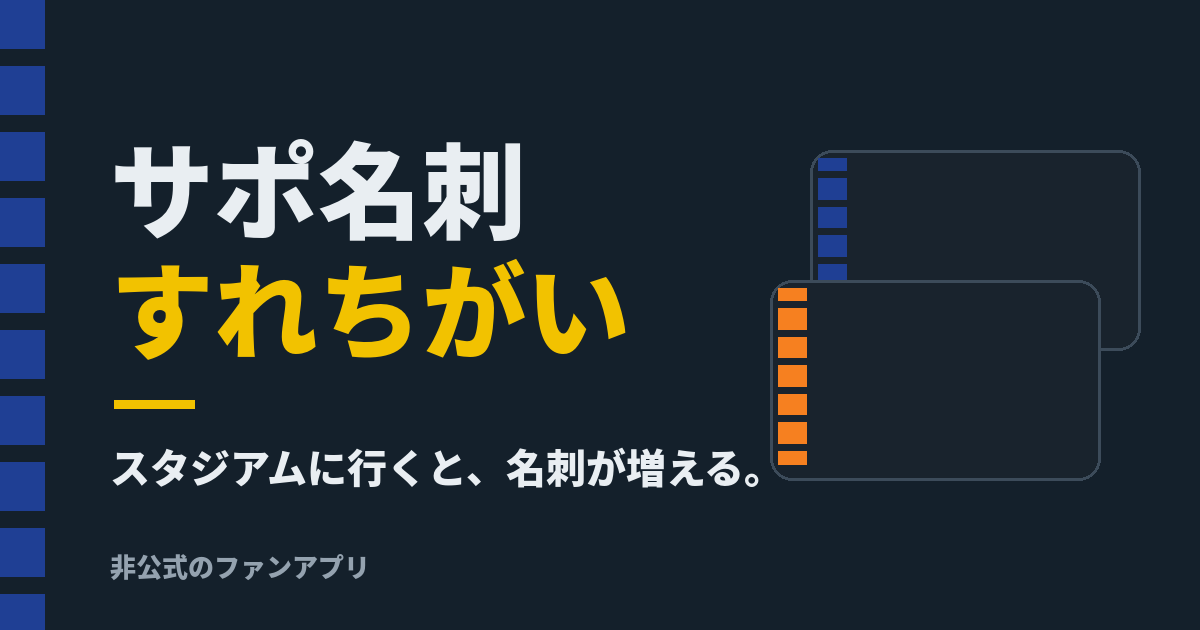
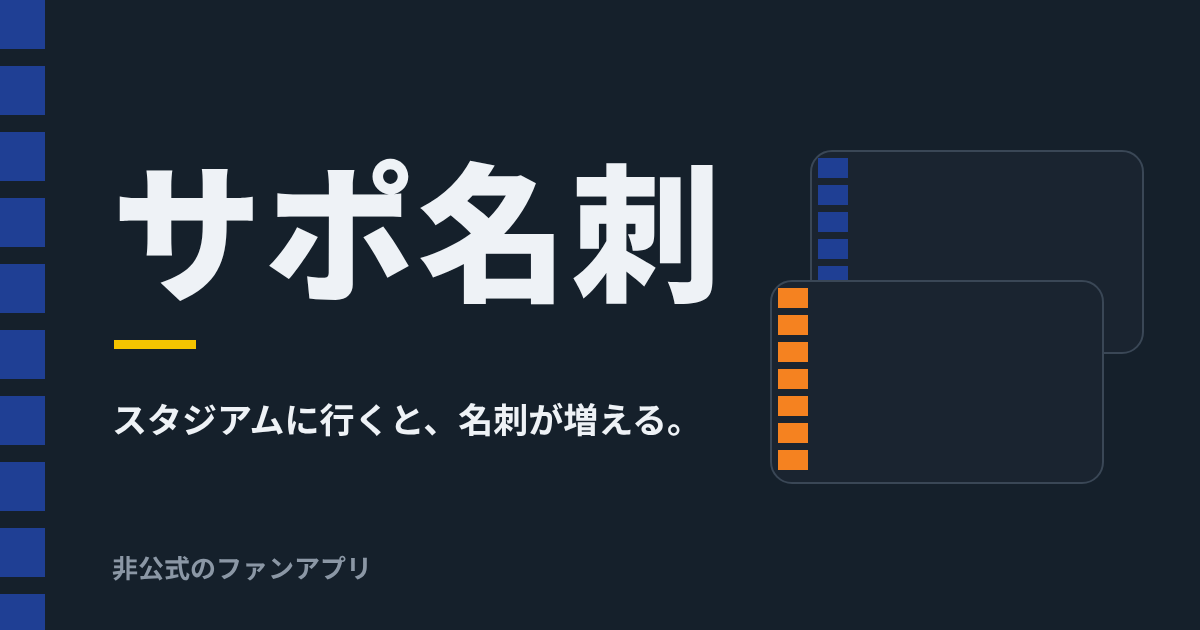
Rename the app to サポ名刺
Claude-Session: https://claude.ai/code/session_01ERHpuUjrWHn3PR1S6RVVpq

diff --git a/index.html b/index.html
@@ -5,11 +5,11 @@
 <meta name="viewport" content="width=device-width,initial-scale=1,viewport-fit=cover">
 <meta name="theme-color" content="#14202B">
 <meta name="description" content="同じ試合にいたサポーターと、名刺が自動で交換される。非公式のファンアプリ。">
-<meta property="og:title" content="サポ名刺すれちがい">
+<meta property="og:title" content="サポ名刺">
 <meta property="og:description" content="スタジアムに行くと、名刺が増える。">
 <meta name="apple-mobile-web-app-capable" content="yes">
 <meta name="apple-mobile-web-app-title" content="サポ名刺">
-<title>サポ名刺すれちがい</title>
+<title>サポ名刺</title>
 <link rel="icon" href="icon.png">
 <link rel="apple-touch-icon" href="icon.png">
 <meta property="og:image" content="https://sapo-meishi.com/og.png">
@@ -474,7 +474,7 @@ button.pick{cursor:pointer}
 <body>
 <div class="wrap">
   <header>
-    <div class="hbar"><h1>サポ名刺すれちがい</h1><button type="button" class="ibtn" id="about-top" aria-label="このアプリについて・利用上の注意">i</button></div>
+    <div class="hbar"><h1>サポ名刺</h1><button type="button" class="ibtn" id="about-top" aria-label="このアプリについて・利用上の注意">i</button></div>
     <p class="lede">同じ試合にいたサポーターと、名刺が自動で交換される。チェックインできるのは試合の日だけ。非公式のファンアプリです。</p>
     <p id="net" hidden></p>
   </header>
@@ -611,7 +611,7 @@ button.pick{cursor:pointer}
 <div class="about" id="about" hidden role="dialog" aria-modal="true" aria-label="このアプリについて">
   <div class="in">
     <div class="row between"><h2>このアプリについて</h2><button type="button" class="btn ghost" id="about-close">閉じる</button></div>
-    <p>「サポ名刺すれちがい」は、同じ試合にチェックインしたサポーターどうしで、名刺が自動で交換されるアプリです。</p>
+    <p>「サポ名刺」は、同じ試合にチェックインしたサポーターどうしで、名刺が自動で交換されるアプリです。</p>
     <h3>非公式のアプリです</h3>
     <p>個人が作っているファンアプリで、Jリーグや各クラブとは関係がありません。クラブのエンブレムや選手の写真は使っていません。試合日程は、Jリーグと各クラブの発表をもとに運営が入れています。</p>
     <h3>預かる情報</h3>
@@ -1484,11 +1484,11 @@ async function shareImage(d){
   const big=d.kind==="match"?String(d.n):String(games),tail=d.kind==="match"?"人とすれちがいました":"試合 現地でチェックイン";
   const top=d.kind==="match"?d.line:d.kind==="season"?SEASON+"シーズンのまとめ":SEASON+"シーズンのサポ名刺",sub=d.kind==="match"?"はじめまして "+(d.n-d.re)+"　再会 "+d.re+"　レア "+d.rare:d.kind==="season"?seasonLine():"リーグ戦・ルヴァンカップ・天皇杯";
   const who=(me.nick||"名無しのサポ"),line2=me.club+"サポ　今季の現地 "+games+"試合"+(title?"　称号 "+title:"");
-  try{await Promise.all([document.fonts.load("400 56px "+F.d,tail+who+"サポ名刺すれちがい"),document.fonts.load("700 30px "+F.b,top+sub+line2+"非公式のファンアプリ"),document.fonts.load("600 180px "+F.n,big)])}catch(e){}
+  try{await Promise.all([document.fonts.load("400 56px "+F.d,tail+who+"サポ名刺"),document.fonts.load("700 30px "+F.b,top+sub+line2+"非公式のファンアプリ"),document.fonts.load("600 180px "+F.n,big)])}catch(e){}
   g.fillStyle="#14202B";g.fillRect(0,0,W,H);
   for(let y=0;y<H;y+=66){g.fillStyle=me.color;g.fillRect(0,y,44,48);g.globalAlpha=.45;g.fillRect(0,y+48,44,18);g.globalAlpha=1}
   g.textBaseline="alphabetic";
-  g.fillStyle="#94A2AF";g.font="700 28px "+F.b;g.fillText("サポ名刺すれちがい",96,84);
+  g.fillStyle="#94A2AF";g.font="700 28px "+F.b;g.fillText("サポ名刺",96,84);
   g.fillStyle="#E9EEF2";g.font="700 34px "+F.b;g.fillText(top,96,150,W-150);
   g.fillStyle="#FFD23F";g.font="600 190px "+F.n;g.fillText(big,96,330);
   const bw=g.measureText(big).width;
@@ -1506,7 +1506,7 @@ async function shareImage(d){
 }
 function showShare(el,d){
   el.innerHTML='<p class="note">画像を作っています</p>';
-  const text=(d.kind==="match"?"今日は"+d.n+"人とすれちがいました（"+d.line.split("　")[0]+"）":d.kind==="season"?"今季は"+S.log.filter(l=>(l.season||SEASON)===SEASON).length+"試合に行って、"+BOOK().length+"人とすれちがいました":S.me.club+"サポの名刺を作りました")+"\n#サポ名刺すれちがい";
+  const text=(d.kind==="match"?"今日は"+d.n+"人とすれちがいました（"+d.line.split("　")[0]+"）":d.kind==="season"?"今季は"+S.log.filter(l=>(l.season||SEASON)===SEASON).length+"試合に行って、"+BOOK().length+"人とすれちがいました":S.me.club+"サポの名刺を作りました")+"\n#サポ名刺";
   shareImage(d).then(url=>{
     el.innerHTML='<div class="share"><img src="'+url+'" alt="今季のまとめ"><p class="note">画像を長押し（パソコンは右クリック）すると保存できます。</p></div>';
   }).catch(()=>{el.innerHTML='<p class="note">画像を作れませんでした。もう一度押してください。</p>'});
@@ -1764,8 +1764,8 @@ $("a-code-go").addEventListener("click",async()=>{
 $("a-link-go").addEventListener("click",async()=>{
   const o=$("a-code-out"),k=await ensureKey();
   if(!k){o.innerHTML='<p class="xmsg">'+(S.setup?"用意できませんでした。電波のよいところで、もう一度お試しください。":"先に名刺を作ってください。")+'</p>';return}
-  const url=location.origin+location.pathname+"?k="+k,text="サポ名刺すれちがい 復元リンク（自分用。人に送らない）";
-  try{if(navigator.share){await navigator.share({title:"サポ名刺すれちがい",text,url});o.innerHTML='<p class="note">送った先のリンクを開くと、名刺が戻ります。</p>';return}}catch(e){if(e&&e.name==="AbortError")return}
+  const url=location.origin+location.pathname+"?k="+k,text="サポ名刺 復元リンク（自分用。人に送らない）";
+  try{if(navigator.share){await navigator.share({title:"サポ名刺",text,url});o.innerHTML='<p class="note">送った先のリンクを開くと、名刺が戻ります。</p>';return}}catch(e){if(e&&e.name==="AbortError")return}
   try{await navigator.clipboard.writeText(url);o.innerHTML='<p class="note">復元リンクをコピーしました。自分あてのメモなどに貼って残してください。</p>'}
   catch(e){o.innerHTML='<p class="note">このリンクを、自分あてのメモなどに残してください。</p><p class="code" style="font-size:13px">'+esc(url)+'</p>'}
 });
@@ -1813,7 +1813,7 @@ $("about-top").addEventListener("click",()=>$("about-open").click());
 
 
 // 新しい版が公開されていたら、自動で読み込み直す（ホーム画面から開くと更新ボタンがないため）
-const APP_VER="20261004160136";
+const APP_VER="20261004161021";
 async function checkUpdate(){
   try{
     const r=await fetch("version.txt?t="+Date.now(),{cache:"no-store"});if(!r.ok)return;
